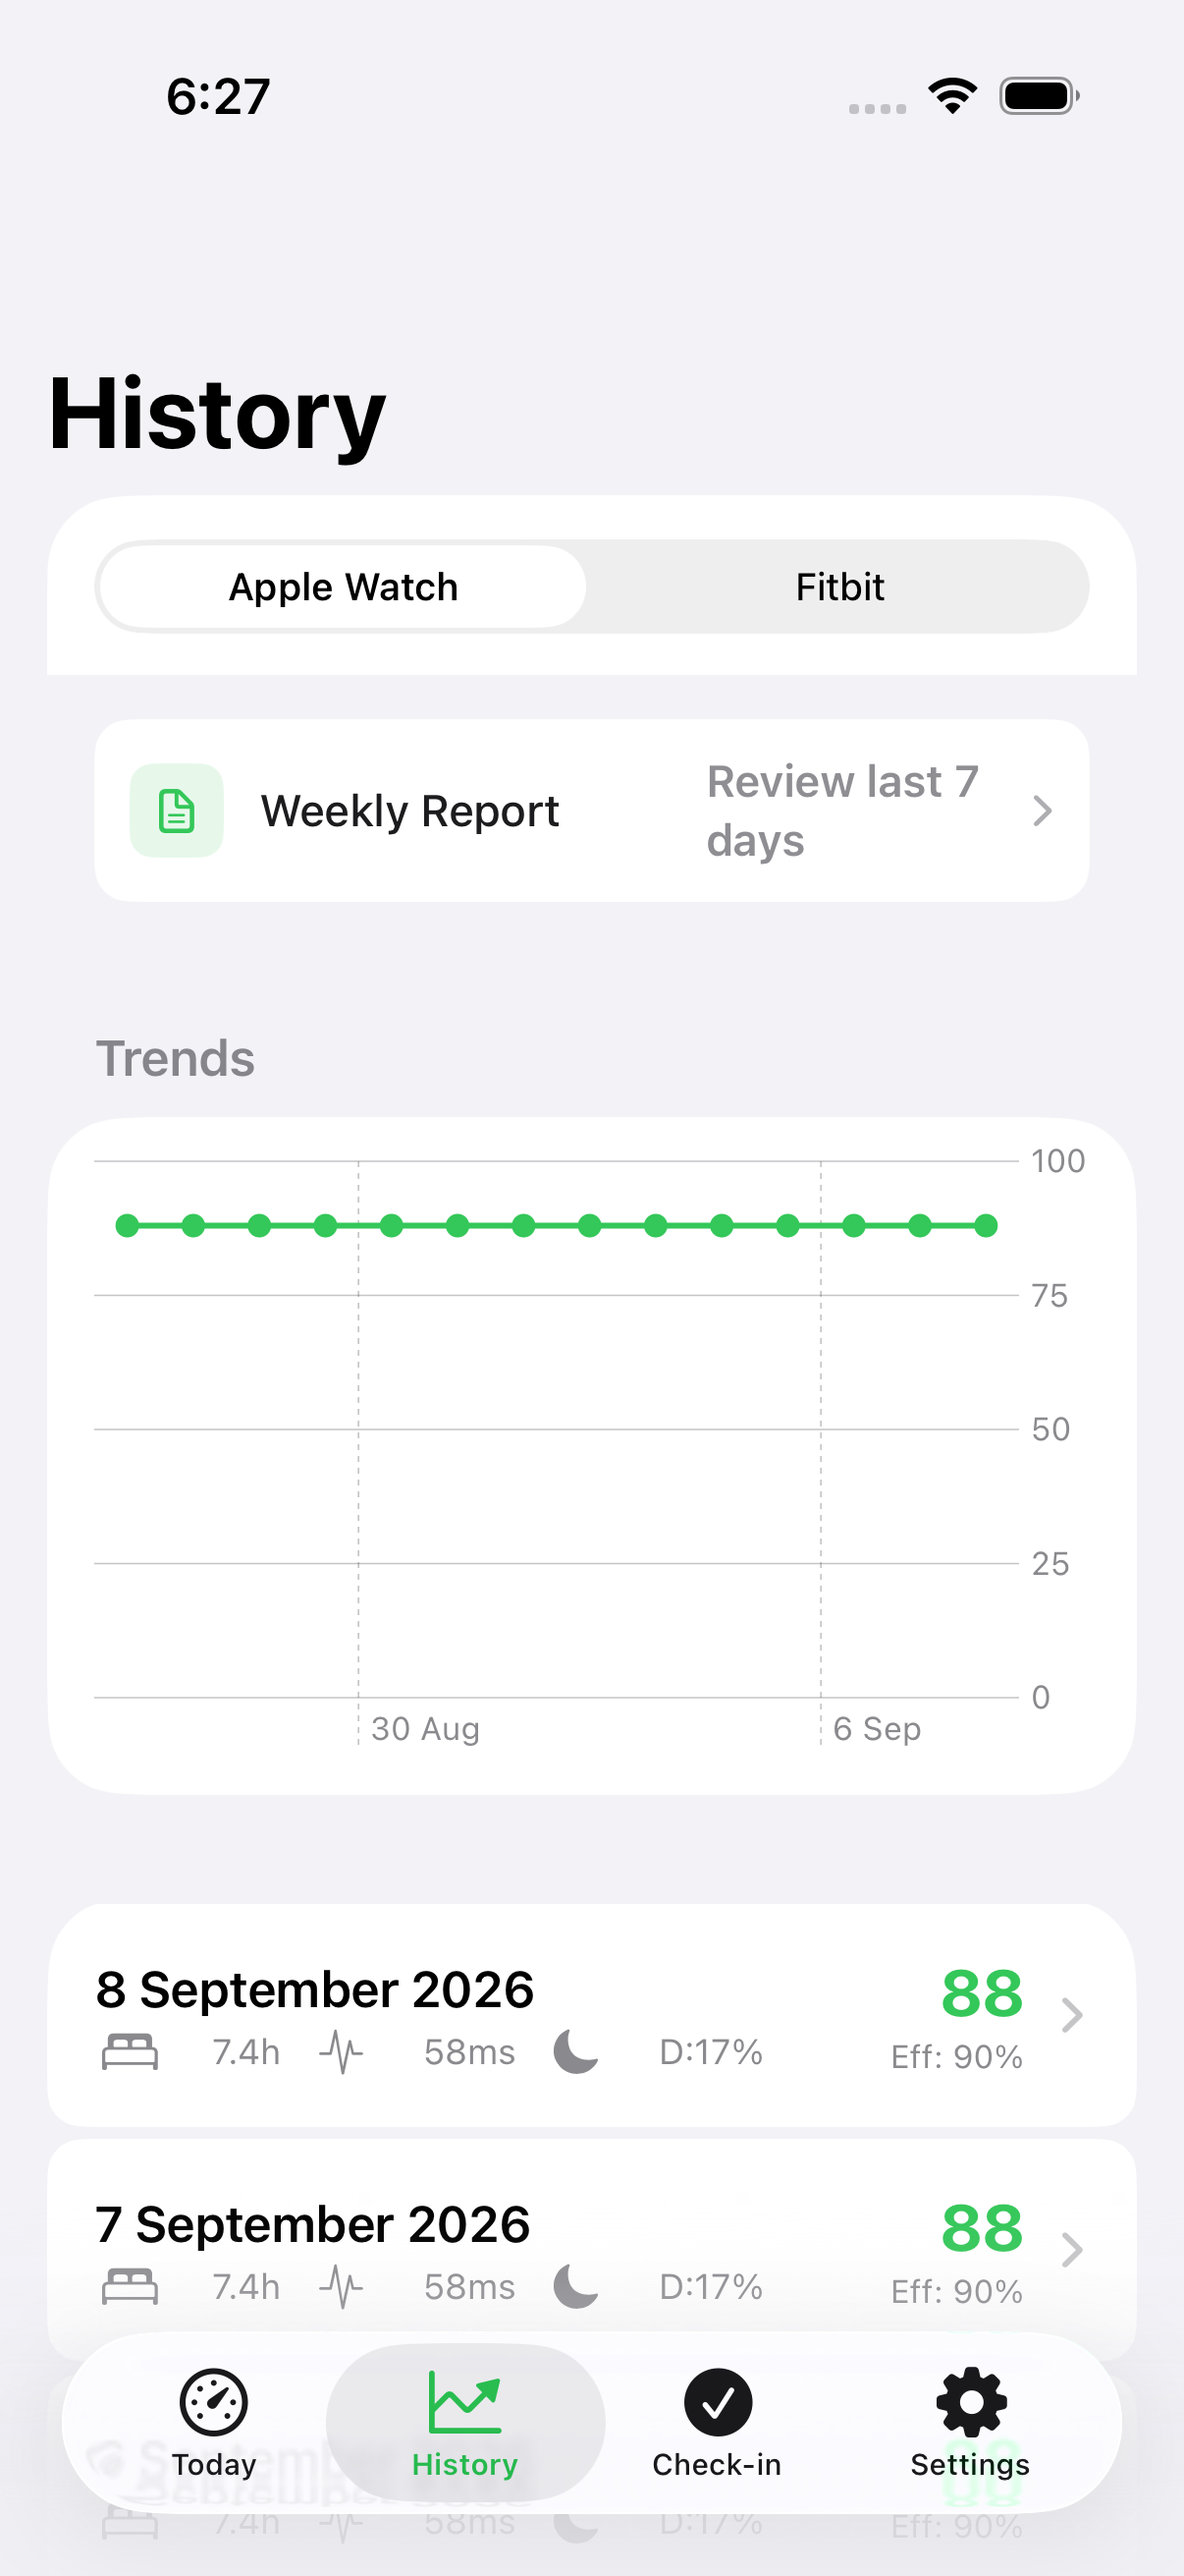
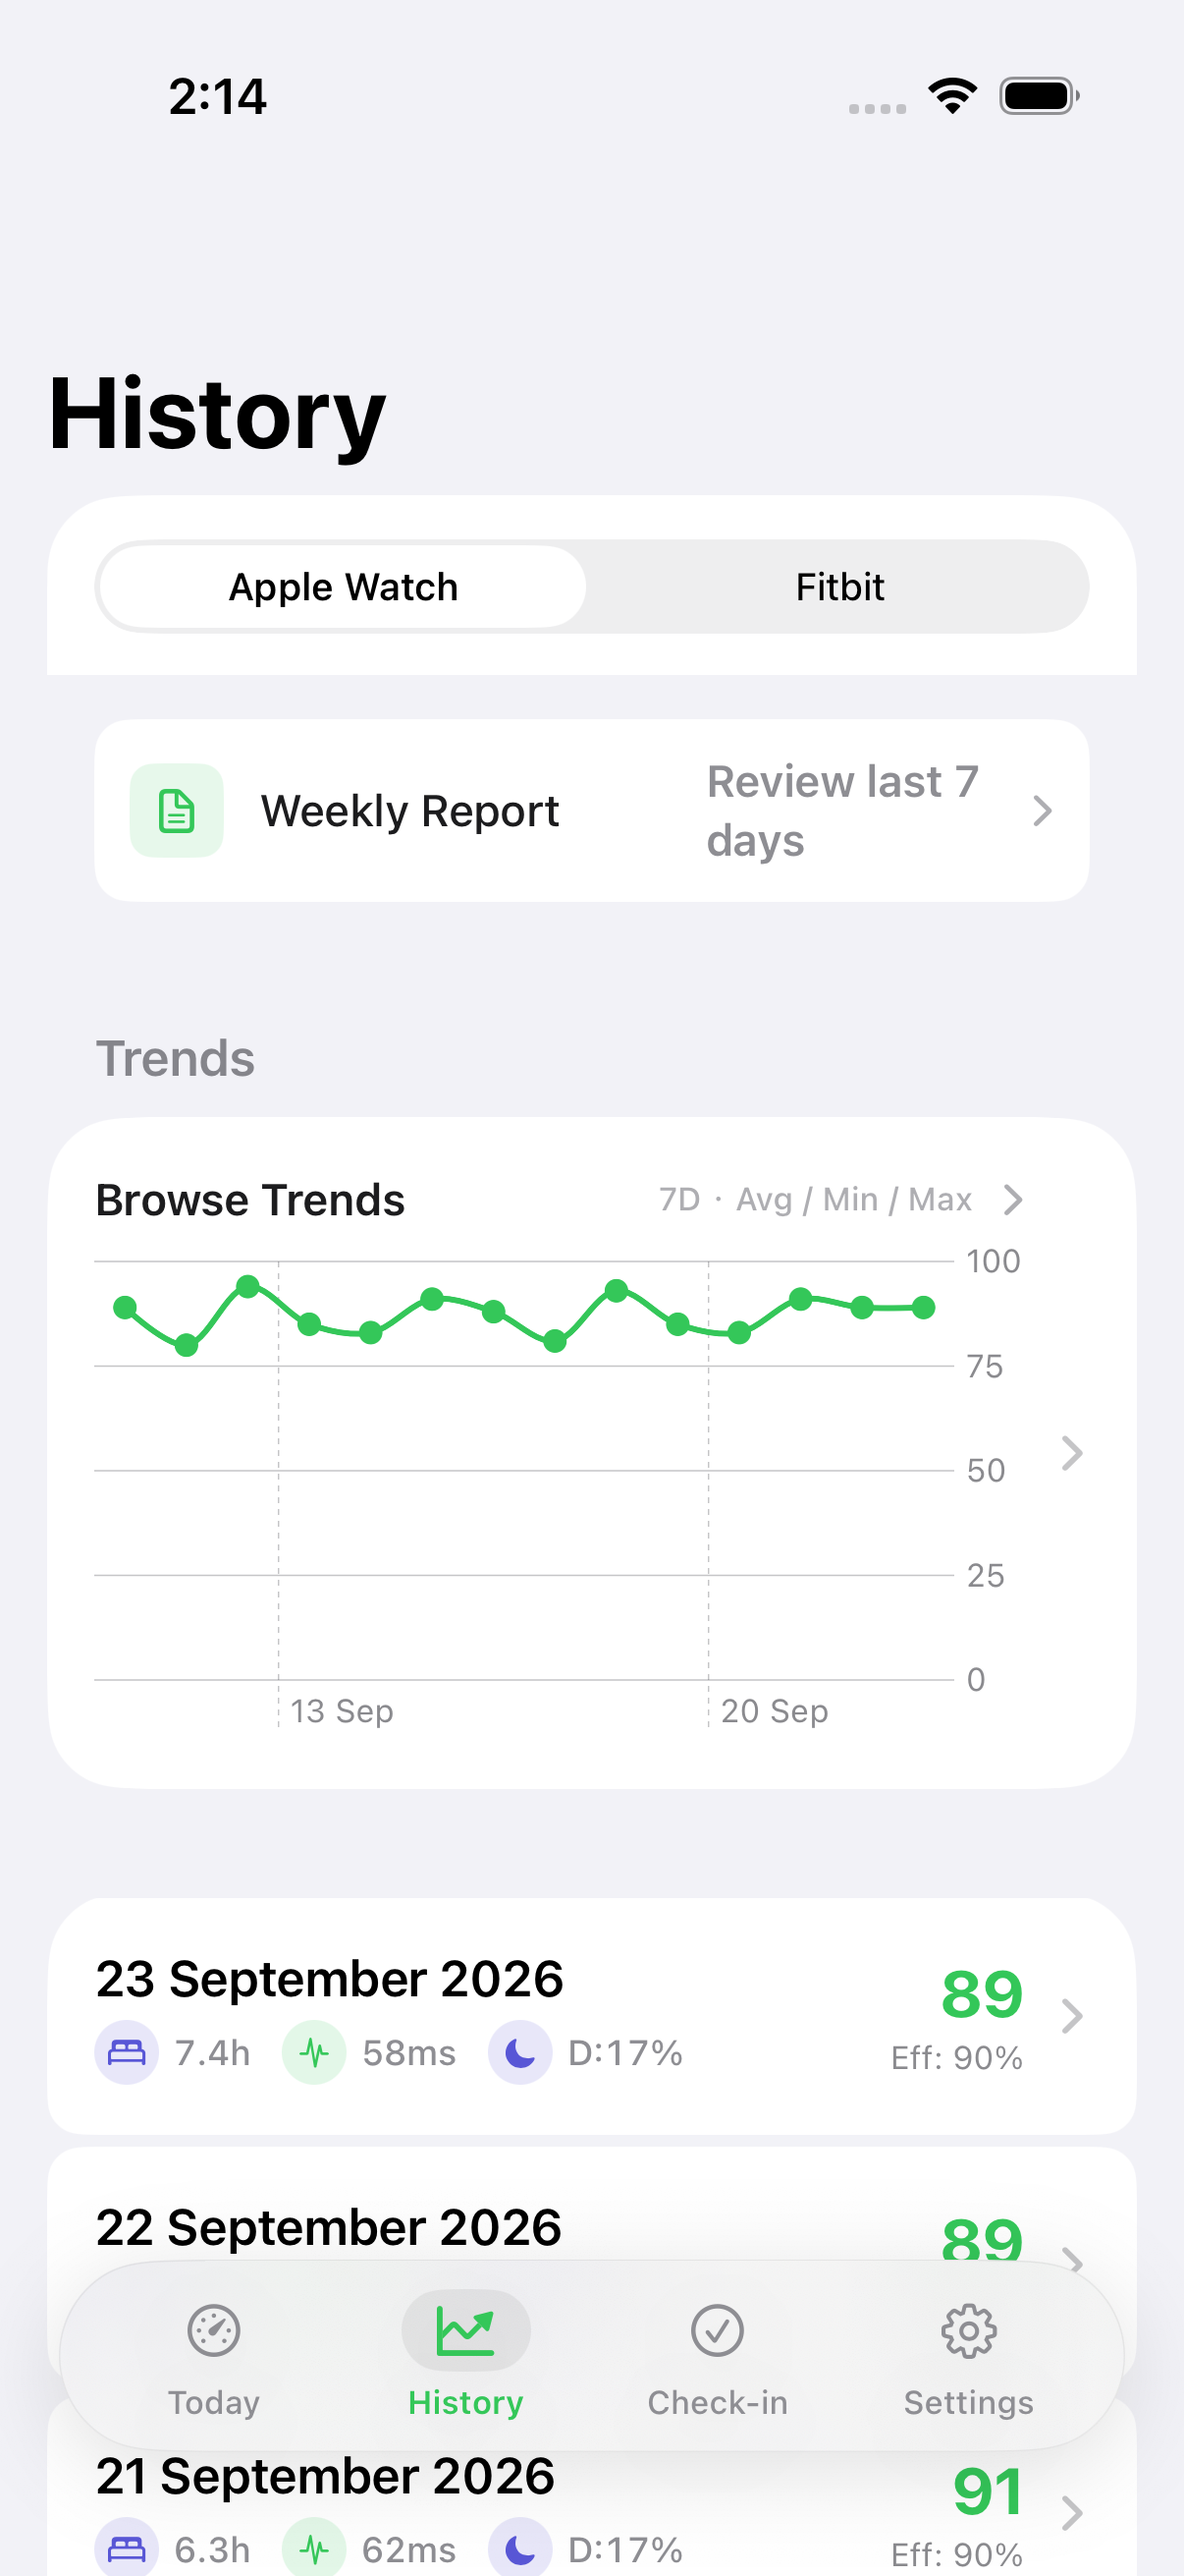
feat(history): Apple circular metric wells on day rows (Honest #64) (#82)
Match Body chrome: sleep / HRV / deep chips use tinted circular SF Symbol
wells. Refresh History UITest audit PNG.

diff --git a/ReadinessTracker/Views/ContentView.swift b/ReadinessTracker/Views/ContentView.swift
@@ -246,15 +246,17 @@ struct HistoryRow: View {
                 Text(data.date, style: .date)
                     .font(.headline)
                 
-                HStack(spacing: 8) {
-                    Label("\(String(format: "%.1f", data.sleepHours))h", systemImage: "bed.double")
-                    Label("\(Int(data.hrv))ms", systemImage: "waveform.path.ecg")
+                HStack(spacing: 10) {
+                    historyMetricChip(icon: "bed.double", tint: RTColor.sleep, text: "\(String(format: "%.1f", data.sleepHours))h")
+                    historyMetricChip(icon: "waveform.path.ecg", tint: RTColor.hrv, text: "\(Int(data.hrv))ms")
                     if data.deepSleepPercent > 0 {
-                        Label("D:\(Int(data.deepSleepPercent * 100))%", systemImage: "moon.fill")
+                        historyMetricChip(
+                            icon: "moon.fill",
+                            tint: RTColor.sleep,
+                            text: "D:\(Int(data.deepSleepPercent * 100))%"
+                        )
                     }
                 }
-                .font(.caption)
-                .foregroundColor(.secondary)
             }
             
             Spacer()
@@ -274,6 +276,23 @@ struct HistoryRow: View {
         .padding(.vertical, 4)
     }
     
+
+    private func historyMetricChip(icon: String, tint: Color, text: String) -> some View {
+        HStack(spacing: 5) {
+            Image(systemName: icon)
+                .font(.system(size: 10, weight: .semibold))
+                .foregroundStyle(tint)
+                .frame(width: 22, height: 22)
+                .background(tint.opacity(0.14))
+                .clipShape(Circle())
+            Text(text)
+                .font(.caption.weight(.medium))
+                .foregroundStyle(RTColor.secondaryText)
+                .monospacedDigit()
+        }
+        .accessibilityElement(children: .combine)
+    }
+
     private func scoreColor(_ score: Int) -> Color {
         ScoreZone(score: score).color
     }

diff --git a/ReadinessTrackerUITests/SurfacesUITests.swift b/ReadinessTrackerUITests/SurfacesUITests.swift
@@ -283,6 +283,7 @@ final class SurfacesUITests: XCTestCase {
     }
 
     func testHistoryTabSurface() throws {
+        // Honest #64: History rows use circular tint metric wells.
         // Wait for Today chrome before switching tabs (heavier Body tiles can delay first paint).
         _ = app.staticTexts["Readiness"].waitForExistence(timeout: 8)
         let historyTab = app.descendants(matching: .any)["tab.history"].firstMatch

diff --git a/.cursor/skills/verify-readiness-tracker/features/history-tab.md b/.cursor/skills/verify-readiness-tracker/features/history-tab.md
@@ -1,0 +1,16 @@
+# History tab
+
+## Sub-features
+- Source segmented control (Apple Watch | Fitbit)
+- Weekly Report row
+- Trends chart
+- Day rows with circular tint wells for sleep / HRV / deep
+
+## How to get to it
+History tab
+
+## Driving it with the harness
+`SurfacesUITests.testHistoryTabSurface` → `.audit/verify-history.png`
+
+## Gotchas
+Do not invent Fitness+ Training Load chrome on History.
